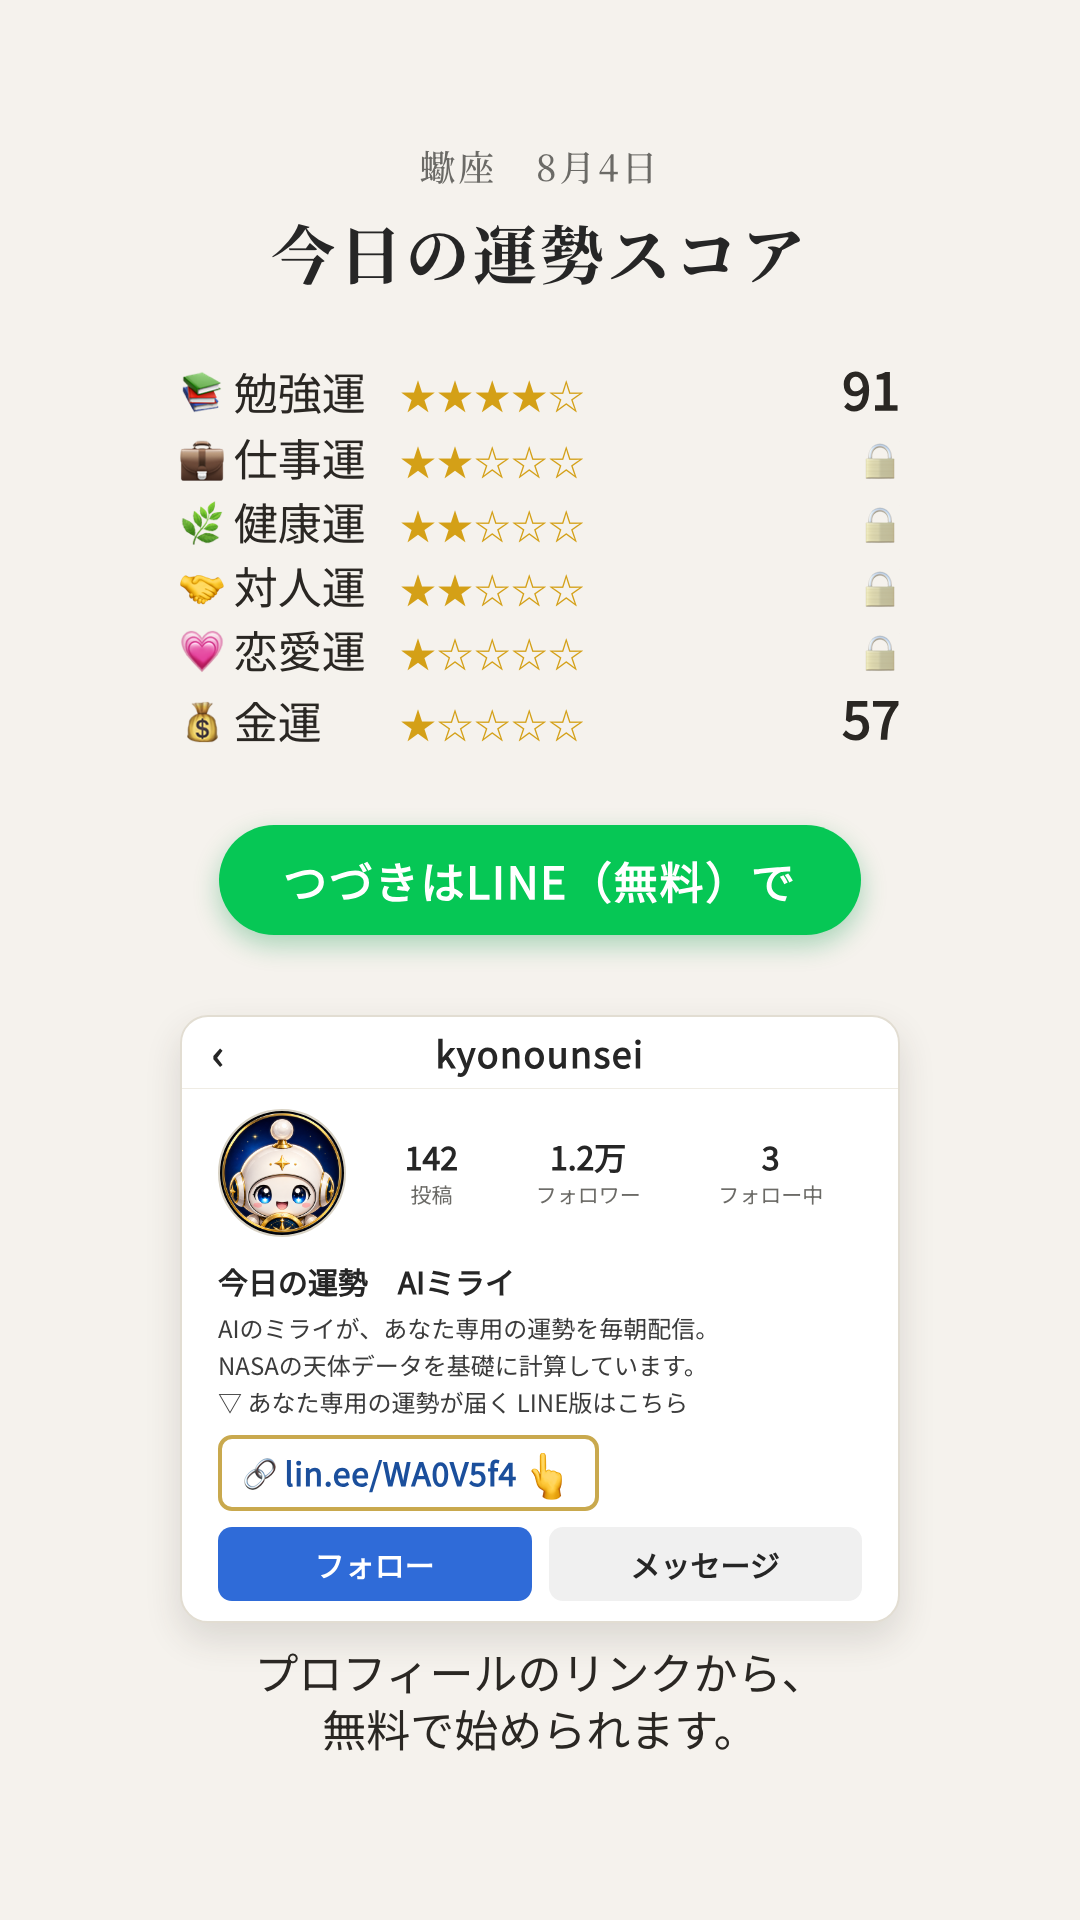
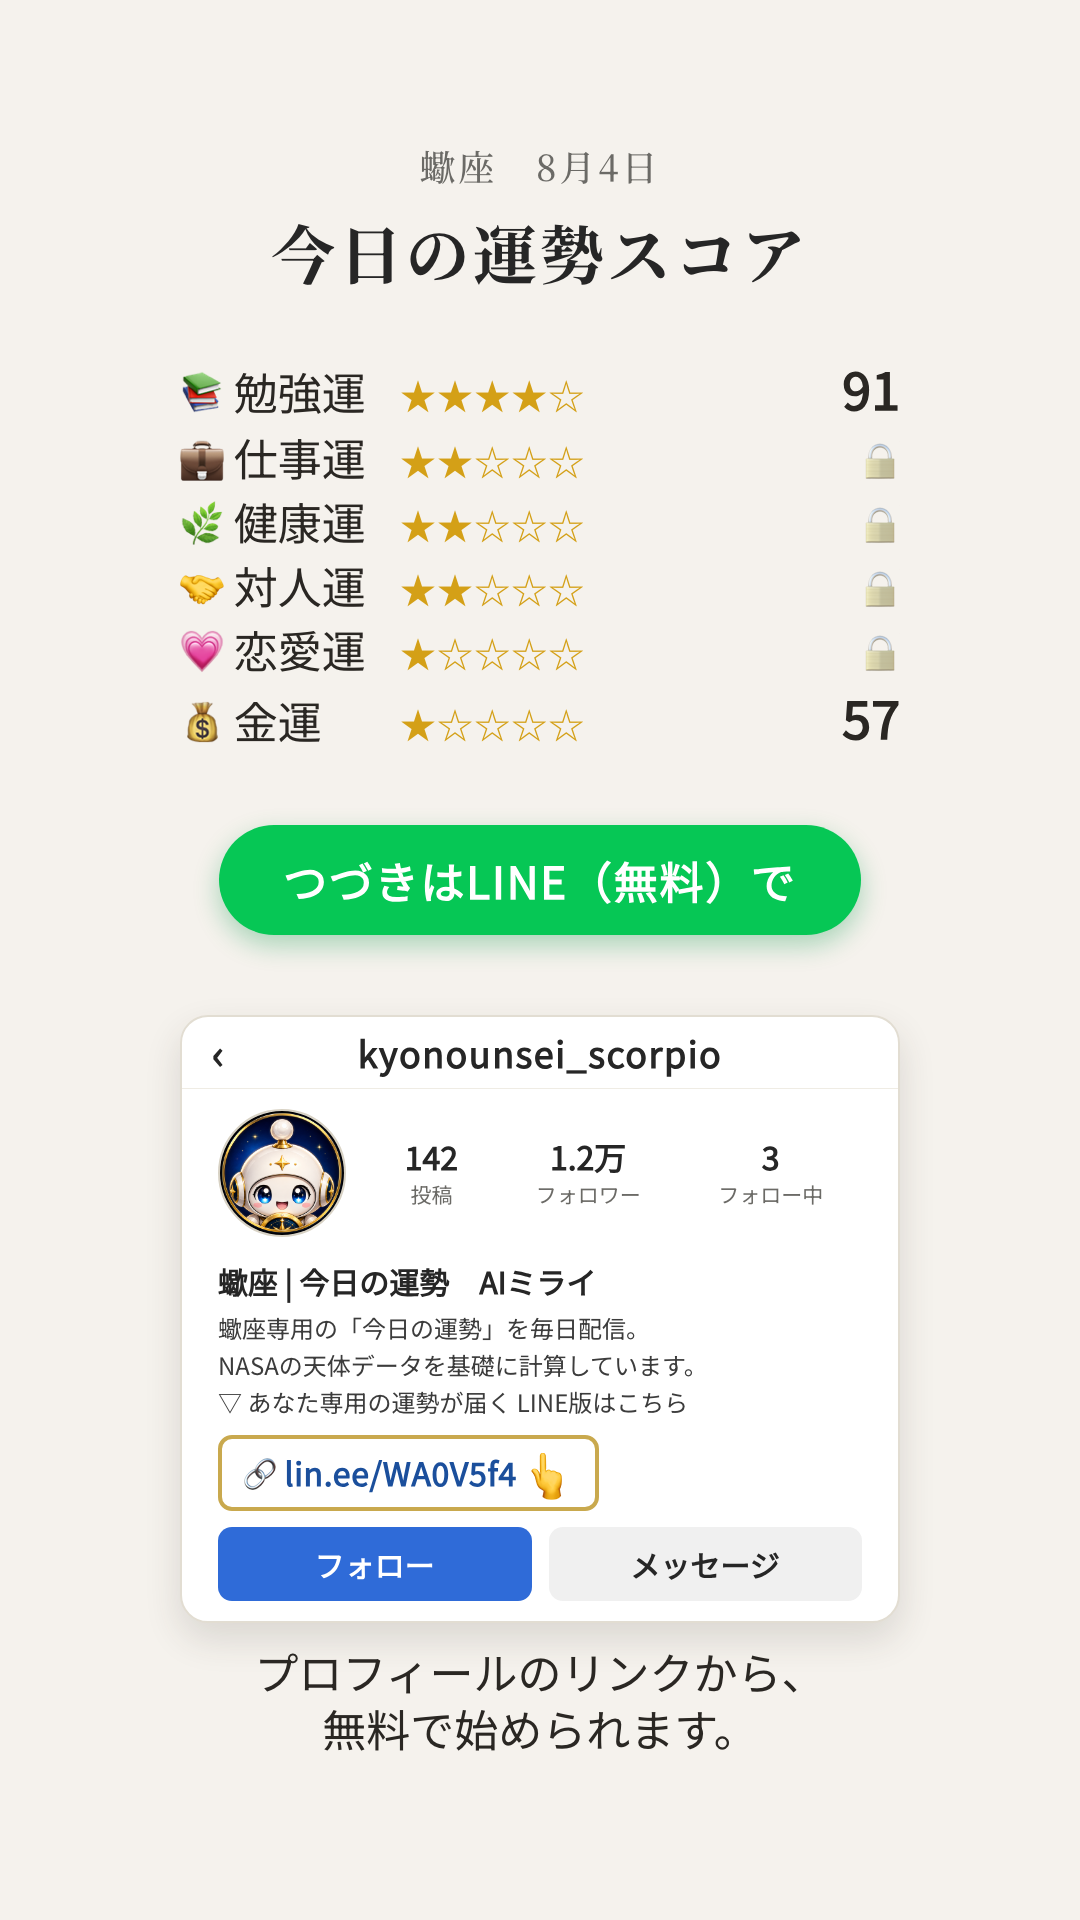
スライド4第23弾:モックを星座アカ別に(フルハンドル・12星座反映)

Changed region(s): [[0.1833, 0.6562, 0.6417, 0.7188], [0.3361, 0.5312, 0.6722, 0.5625]]

diff --git a/slide4-test/index.html b/slide4-test/index.html
@@ -25,18 +25,18 @@
 <body>
 <div class="top-label">ストーリーズ Slide 4（今日の運勢スコア）確認 &middot; Internal Only</div>
 <div class="grid">
-  <div class="card"><img src="aries_slide4.png?v=1785752023" loading="lazy"><div class="label">牡羊座</div></div>
-  <div class="card"><img src="taurus_slide4.png?v=1785750554" loading="lazy"><div class="label">牡牛座</div></div>
-  <div class="card"><img src="gemini_slide4.png?v=1785750554" loading="lazy"><div class="label">双子座</div></div>
-  <div class="card"><img src="cancer_slide4.png?v=1785750554" loading="lazy"><div class="label">蟹座</div></div>
-  <div class="card"><img src="leo_slide4.png?v=1785751513" loading="lazy"><div class="label">獅子座</div></div>
-  <div class="card"><img src="virgo_slide4.png?v=1785750554" loading="lazy"><div class="label">乙女座</div></div>
-  <div class="card"><img src="libra_slide4.png?v=1785750554" loading="lazy"><div class="label">天秤座</div></div>
-  <div class="card"><img src="scorpio_slide4.png?v=1785750554" loading="lazy"><div class="label">蠍座</div></div>
-  <div class="card"><img src="sagittarius_slide4.png?v=1785752023" loading="lazy"><div class="label">射手座</div></div>
-  <div class="card"><img src="capricorn_slide4.png?v=1785750554" loading="lazy"><div class="label">山羊座</div></div>
-  <div class="card"><img src="aquarius_slide4.png?v=1785750554" loading="lazy"><div class="label">水瓶座</div></div>
-  <div class="card"><img src="pisces_slide4.png?v=1785750554" loading="lazy"><div class="label">魚座</div></div>
+  <div class="card"><img src="aries_slide4.png?v=1785752252" loading="lazy"><div class="label">牡羊座</div></div>
+  <div class="card"><img src="taurus_slide4.png?v=1785752252" loading="lazy"><div class="label">牡牛座</div></div>
+  <div class="card"><img src="gemini_slide4.png?v=1785752252" loading="lazy"><div class="label">双子座</div></div>
+  <div class="card"><img src="cancer_slide4.png?v=1785752252" loading="lazy"><div class="label">蟹座</div></div>
+  <div class="card"><img src="leo_slide4.png?v=1785752252" loading="lazy"><div class="label">獅子座</div></div>
+  <div class="card"><img src="virgo_slide4.png?v=1785752252" loading="lazy"><div class="label">乙女座</div></div>
+  <div class="card"><img src="libra_slide4.png?v=1785752252" loading="lazy"><div class="label">天秤座</div></div>
+  <div class="card"><img src="scorpio_slide4.png?v=1785752252" loading="lazy"><div class="label">蠍座</div></div>
+  <div class="card"><img src="sagittarius_slide4.png?v=1785752252" loading="lazy"><div class="label">射手座</div></div>
+  <div class="card"><img src="capricorn_slide4.png?v=1785752252" loading="lazy"><div class="label">山羊座</div></div>
+  <div class="card"><img src="aquarius_slide4.png?v=1785752252" loading="lazy"><div class="label">水瓶座</div></div>
+  <div class="card"><img src="pisces_slide4.png?v=1785752252" loading="lazy"><div class="label">魚座</div></div>
 </div>
 <footer>このページは検索エンジンには公開されません。確認用の内部ページです。</footer>
 </body>
